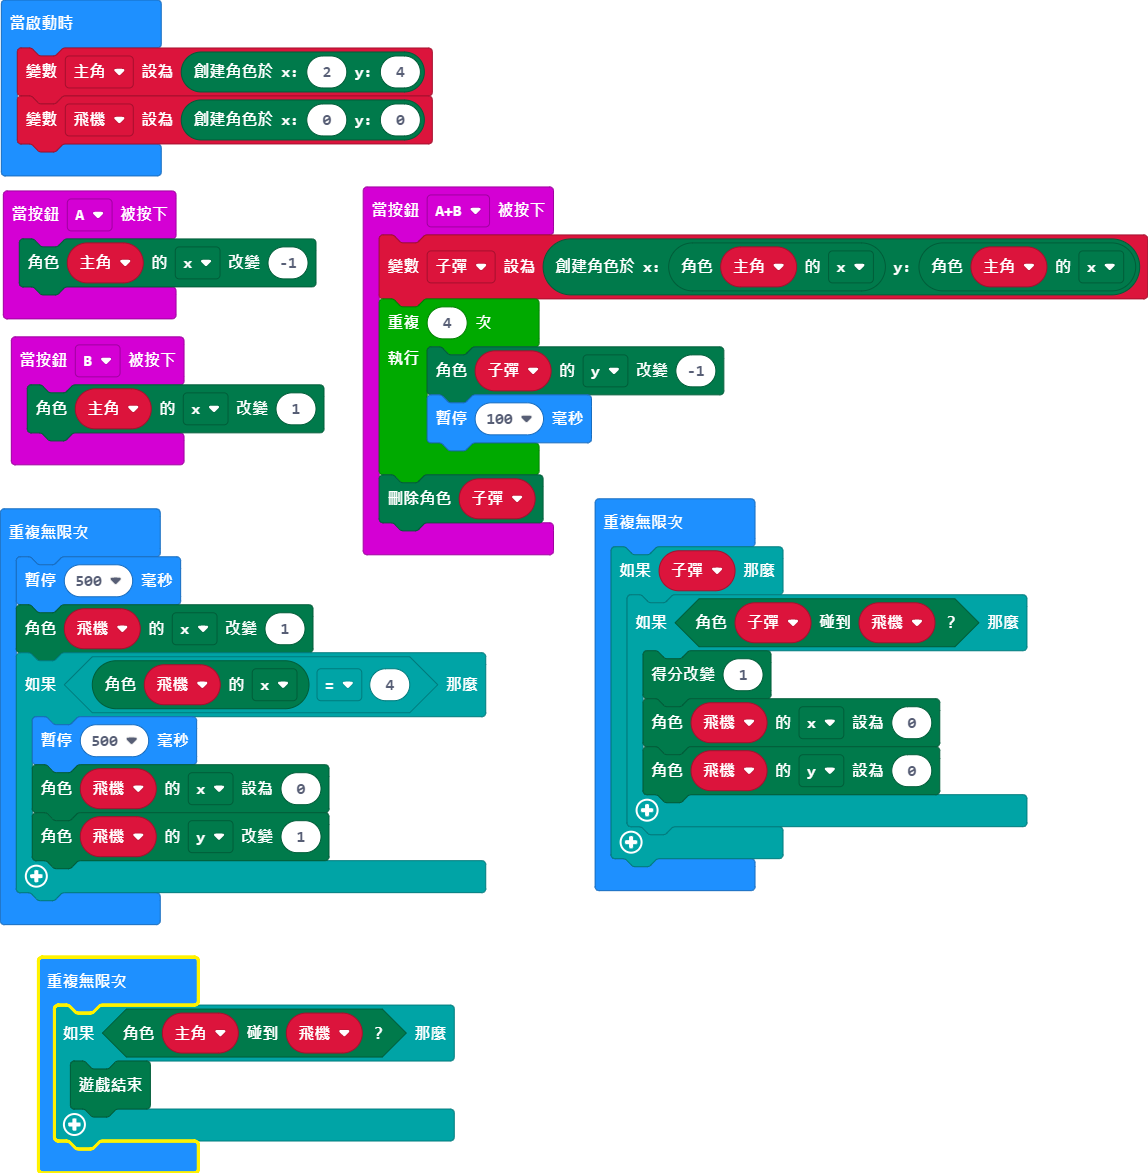
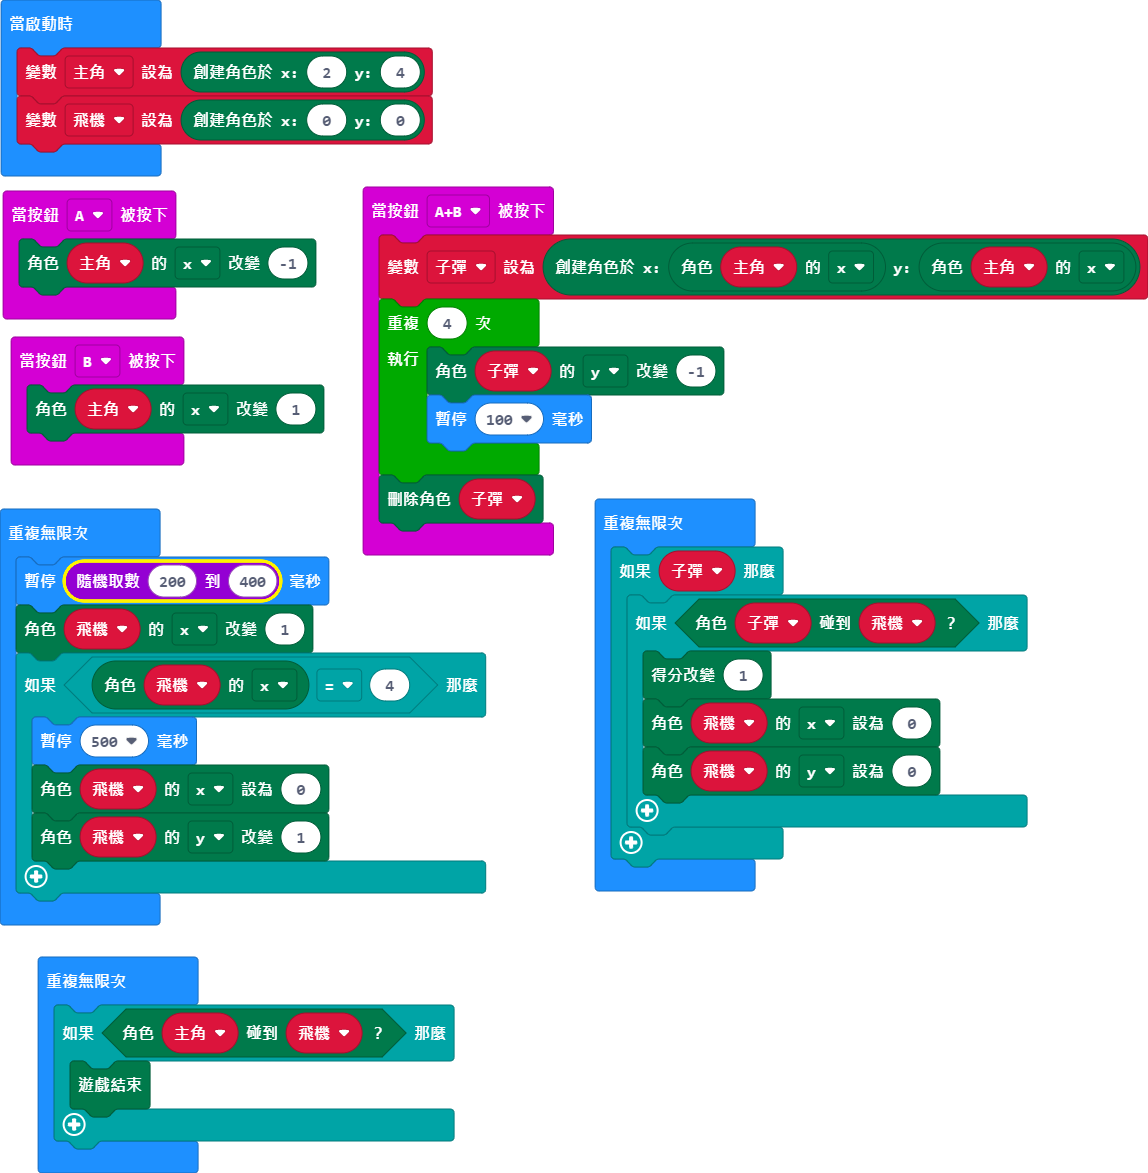
更新 main.blocks, main.ts

diff --git a/main.ts b/main.ts
@@ -17,7 +17,7 @@ let 主角: game.LedSprite = null
 主角 = game.createSprite(2, 4)
 let 飛機 = game.createSprite(0, 0)
 basic.forever(function () {
-    basic.pause(500)
+    basic.pause(randint(200, 400))
     飛機.change(LedSpriteProperty.X, 1)
     if (飛機.get(LedSpriteProperty.X) == 4) {
         basic.pause(500)
